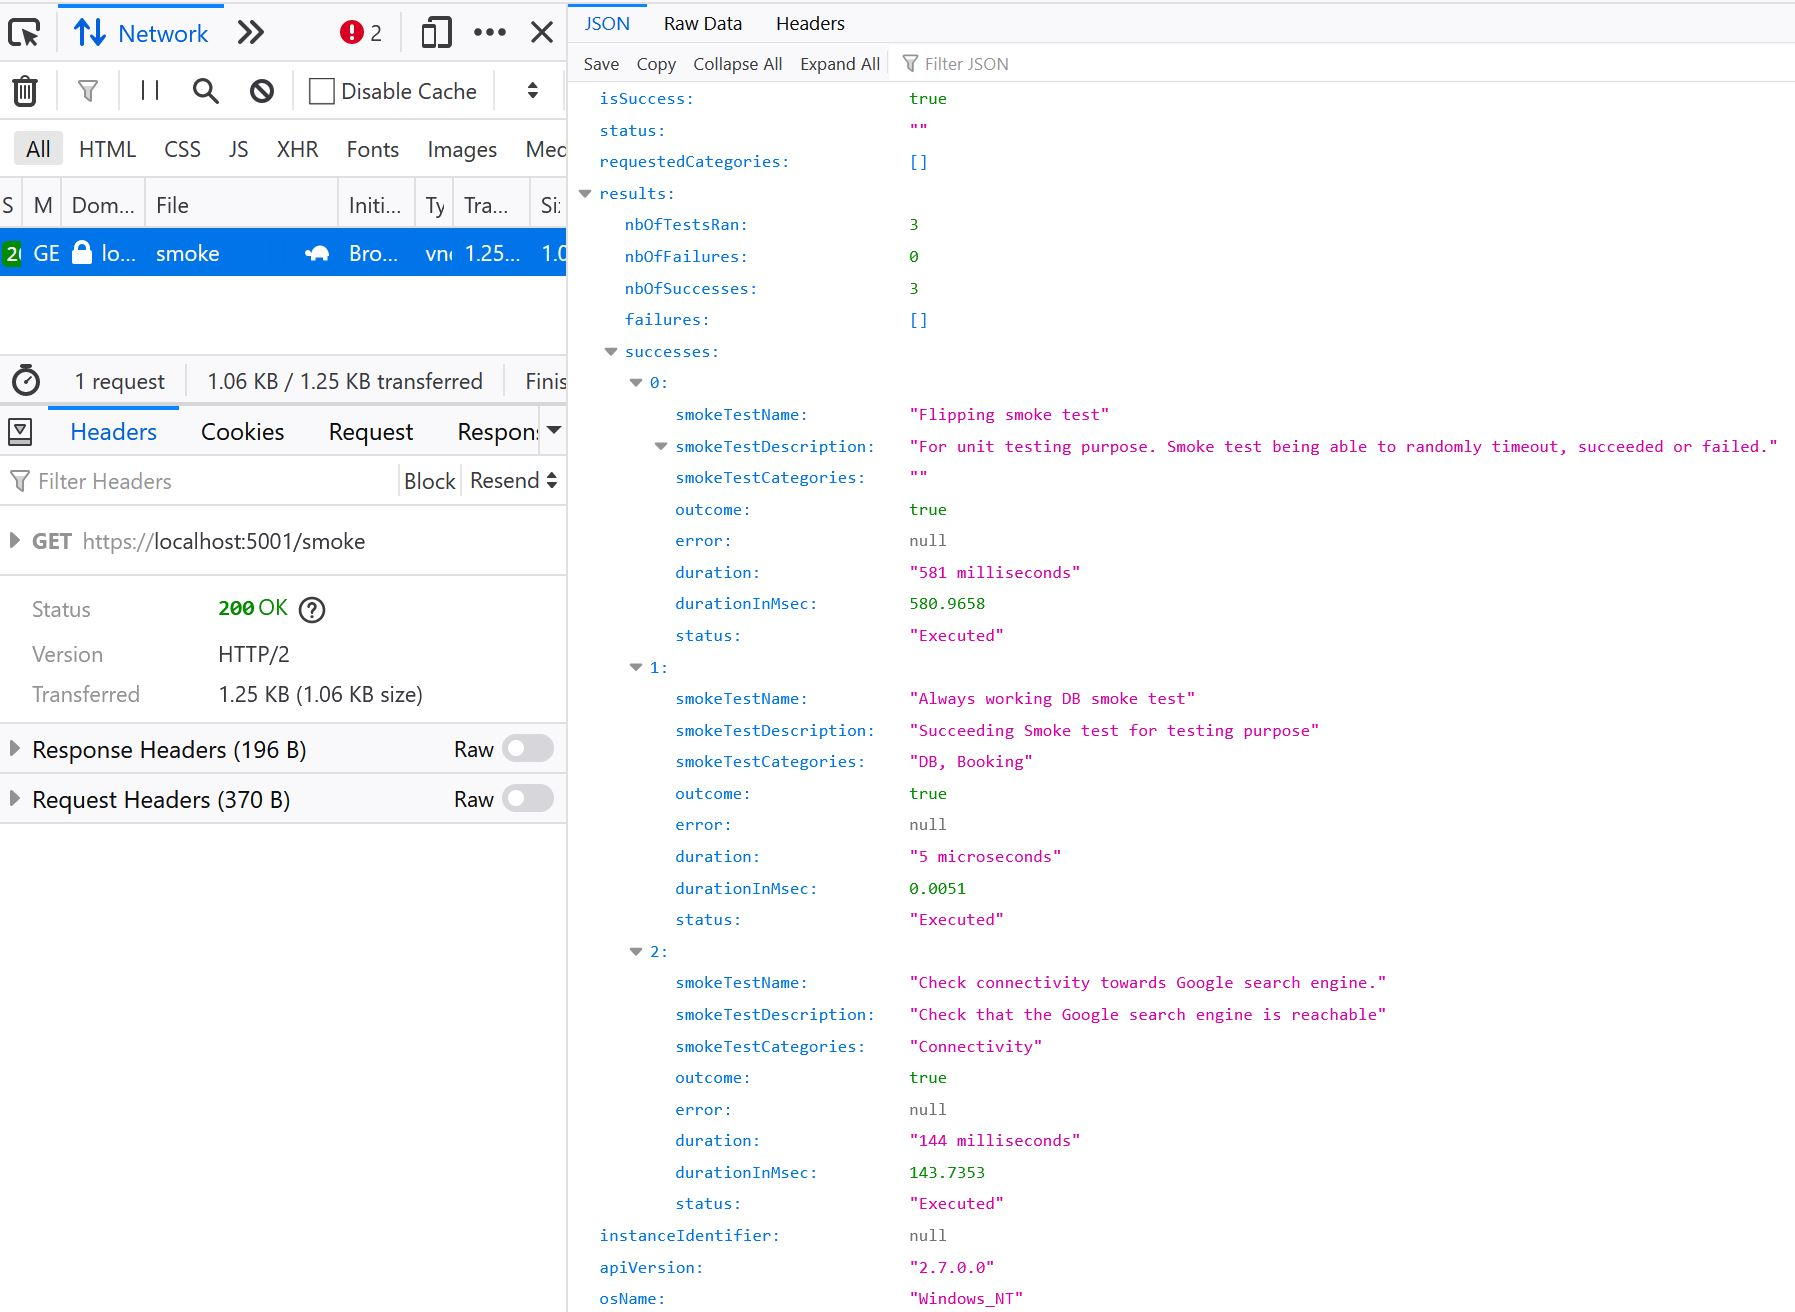
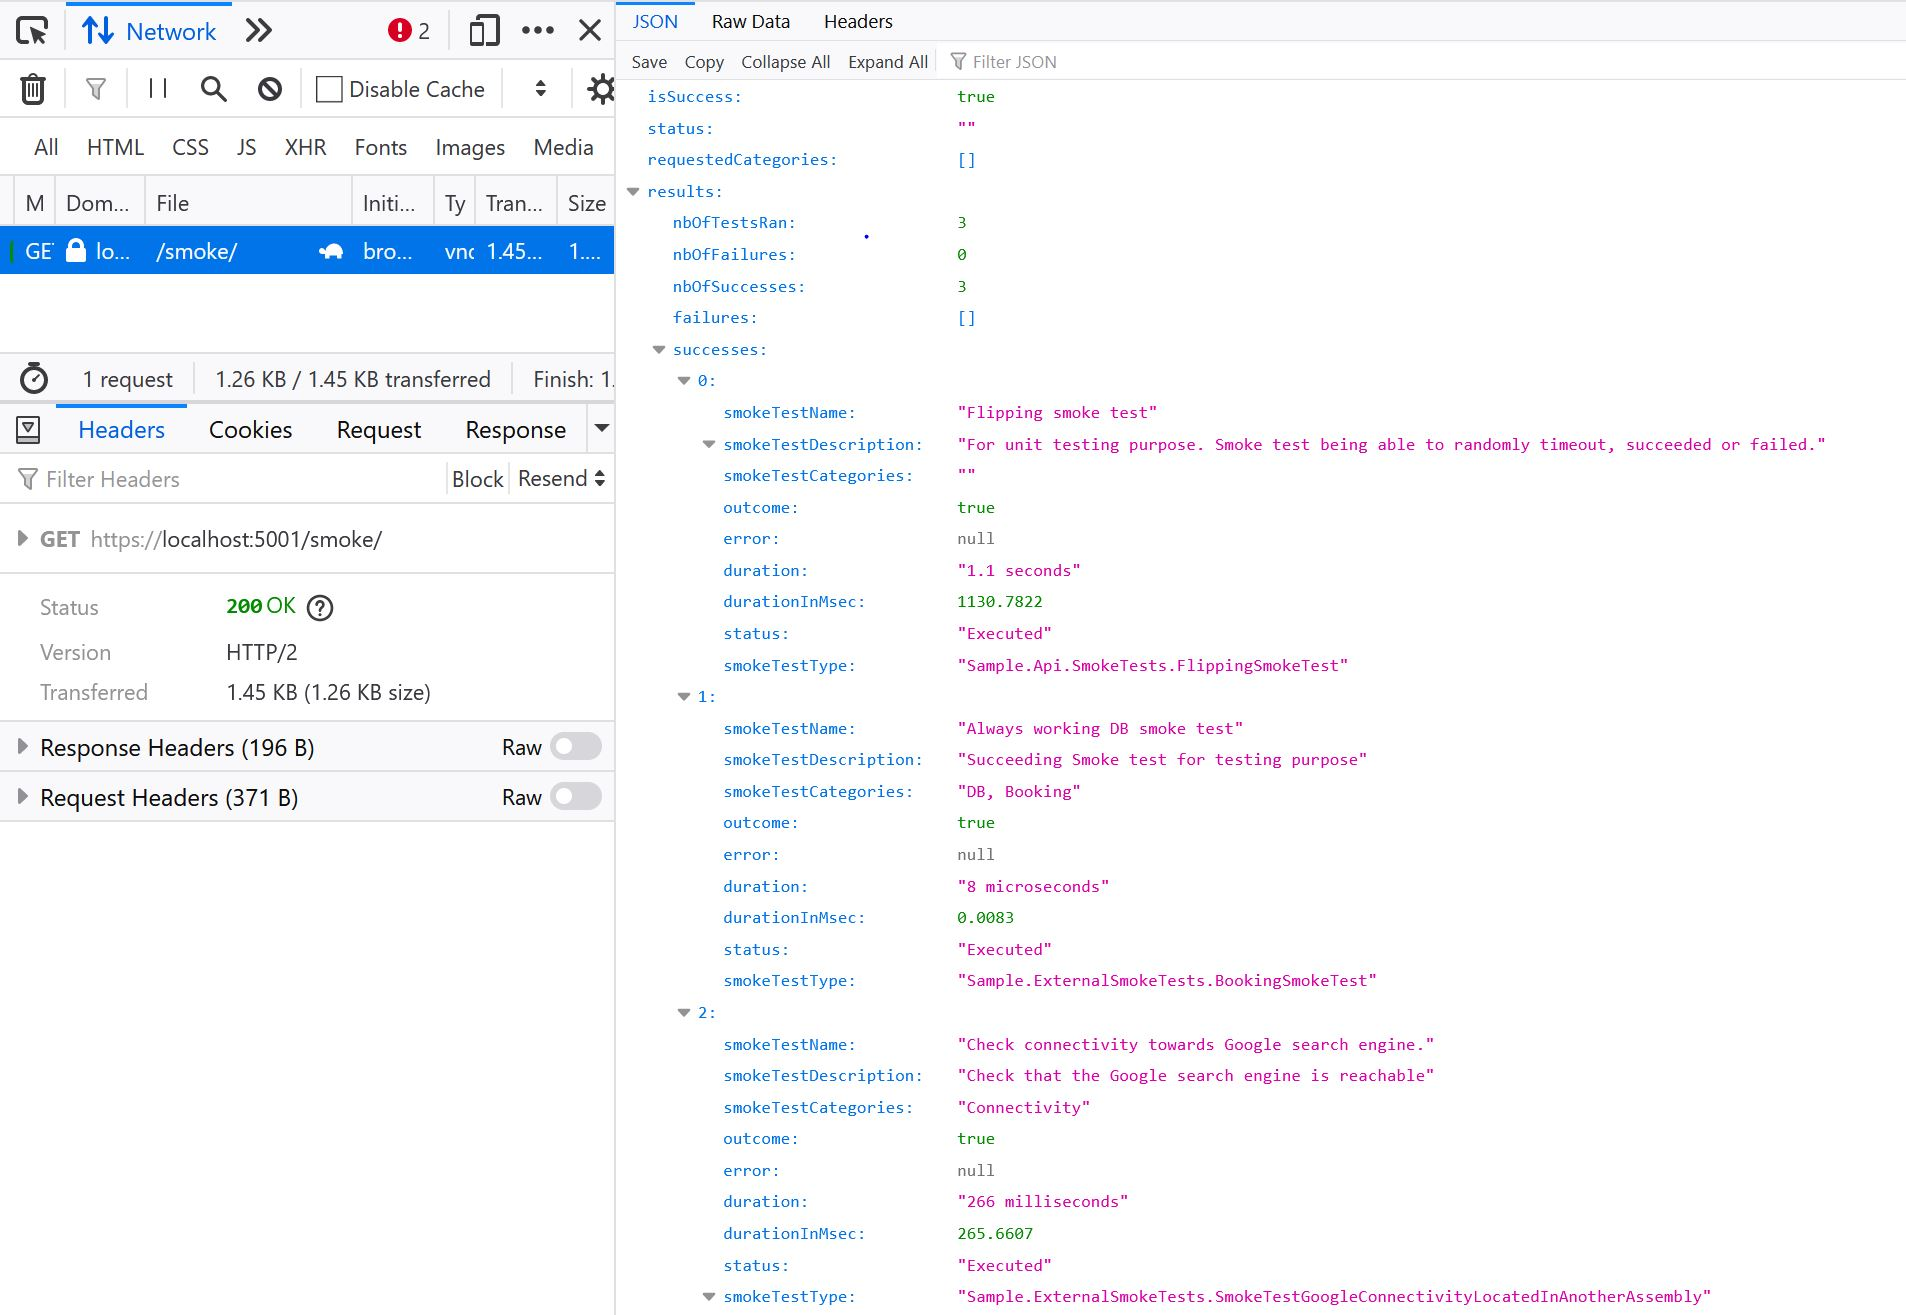
Publish the list of Discard tests as a subset of the Result.
Publish the type of every smoke test whatever their outcome (failure, success or discard)

Update the picture of the Readme samples.

diff --git a/SmokeMe.Tests/Acceptance/SmokeControllerShould.cs b/SmokeMe.Tests/Acceptance/SmokeControllerShould.cs
@@ -77,6 +77,8 @@ namespace SmokeMe.Tests.Acceptance
             Check.That(reportDto.IsSuccess).IsFalse();
             Check.That(reportDto.Status).IsEqualTo("One or more smoke tests have timeout (global timeout is: 5 seconds)");
             Check.That(reportDto.Results.NbOfTestsRan).IsEqualTo(2);
+            Check.That(reportDto.Results.NbOfSuccesses).IsEqualTo(1);
+            Check.That(reportDto.Results.NbOfFailures).IsEqualTo(1);
 
             Check.That(reportDto.Results.Failures[0].Outcome).IsFalse();
             Check.That(reportDto.Results.Failures[0].Duration).IsEqualTo("timeout");
@@ -287,6 +289,30 @@ namespace SmokeMe.Tests.Acceptance
         }
 
         [Test]
+        public async Task Publish_the_Type_FullName_of_every_SmokeTest()
+        {
+            var configuration = Stub.AConfiguration(true);
+            var serviceProvider = Stub.FeatureToggles(new FeatureToggle("featureToggledSmokeTest", false));
+            var smokeTestAutoFinder = new SmokeTestAutoFinder(serviceProvider);
+
+            var controller = new SmokeController(configuration, serviceProvider, smokeTestAutoFinder);
+
+            var response = await controller.ExecuteSmokeTests();
+
+            response.CheckIsError<SmokeTestsSessionReportDto>(HttpStatusCode.InternalServerError);
+            var reportDto = response.ExtractValue<SmokeTestsSessionReportDto>();
+
+            Check.That(reportDto.Results.NbOfTestsRan).IsEqualTo(6);
+            Check.That(reportDto.Results.NbOfFailures).IsEqualTo(3);
+            Check.That(reportDto.Results.NbOfSuccesses).IsEqualTo(2);
+            Check.That(reportDto.Results.NbOfDiscards).IsEqualTo(1);
+
+            Check.That(reportDto.Results.Failures.Select(x => x.SmokeTestType)).ContainsExactly(typeof(AlwaysFailingSmokeTest).FullName, typeof(SmokeTestThrowingAnAccessViolationException).FullName, typeof(SmokeTestGoogleConnectivityLocatedInAnotherAssembly).FullName);
+            Check.That(reportDto.Results.Successes.Select(x => x.SmokeTestType)).ContainsExactly(typeof(AlwaysPositiveSmokeTest).FullName, typeof(BookingSmokeTest).FullName);
+            Check.That(reportDto.Results.Discards.Select(x => x.SmokeTestType)).ContainsExactly(typeof(FeatureToggledAlwaysPositiveSmokeTest).FullName);
+        }
+
+        [Test]
         public async Task Be_able_to_discard_Test_execution_when_Indicated_with_MustBeDiscarded_set_to_true()
         {
             var configuration = Stub.AConfiguration(true);
@@ -302,9 +328,13 @@ namespace SmokeMe.Tests.Acceptance
             var reportDto = response.ExtractValue<SmokeTestsSessionReportDto>();
 
             Check.That(reportDto.Results.NbOfTestsRan).IsEqualTo(2);
-            Check.That(reportDto.Results.Successes.Select(x => x.SmokeTestName)).ContainsExactly("Always positive smoke test after a delay", "Feature toggled test");
+            Check.That(reportDto.Results.NbOfSuccesses).IsEqualTo(1);
+            Check.That(reportDto.Results.NbOfDiscards).IsEqualTo(1);
+            Check.That(reportDto.Results.Successes.Select(x => x.SmokeTestName)).ContainsExactly("Always positive smoke test after a delay");
+            Check.That(reportDto.Results.Discards.Select(x => x.SmokeTestName)).ContainsExactly("Feature toggled test");
             
-            Check.That(reportDto.Results.Successes.Select(x => x.Status)).ContainsExactly(Status.Executed, Status.Discarded);
+            Check.That(reportDto.Results.Successes.Select(x=> x.Status)).ContainsExactly(Status.Executed);
+            Check.That(reportDto.Results.Discards.Select(x=> x.Status)).ContainsExactly(Status.Discarded);
         }
 
         private static void ForceTheLoadingOfTheSampleExternalSmokeTestsAssembly()

diff --git a/SmokeMe/SmokeTestRunner.cs b/SmokeMe/SmokeTestRunner.cs
@@ -59,7 +59,7 @@ namespace SmokeMe
 
             var timeoutSmokeTests = smokeTestsWithMetaData.Where(x => !completedIdentifiers.Contains(x.SmokeTestIdentifier.Value));
 
-            var timeoutResultWithSomeMetaData = timeoutSmokeTests.Select(x => new SmokeTestResultWithMetaData(new SmokeTestResult(false), null, x));
+            var timeoutResultWithSomeMetaData = timeoutSmokeTests.Select(x => new SmokeTestResultWithMetaData(new SmokeTestResult(false), null, x, smokeTestType:x.GetType().Name));
 
             var timeoutAndCompletedResultsWithMetadata = timeoutResultWithSomeMetaData.Concat(completedTestsResultWithMetaData).ToArray();
 
@@ -97,14 +97,14 @@ namespace SmokeMe
                 {
                     stopwatch.Stop();
 
-                    var smokeTestNonExecution = new SmokeTestResultWithMetaData(new SmokeTestResult(true), stopwatch.Elapsed, smokeTestWithMetaData, discarded: true);
+                    var smokeTestNonExecution = new SmokeTestResultWithMetaData(new SmokeTestResult(true), stopwatch.Elapsed, smokeTestWithMetaData, smokeTestType: smokeTest.GetType().FullName, discarded: true);
                     return new SmokeTestWithItsResultWithMetaData(smokeTest, smokeTestNonExecution, smokeTestWithMetaData.SmokeTestIdentifier.Value);
                 }
 
                 var smokeTestResult = await smokeTest.Scenario();
 
                 stopwatch.Stop();
-                var smokeTestExecution = WrapSmokeTestResultWithMetaData(smokeTestResult, stopwatch.Elapsed, smokeTestWithMetaData);
+                var smokeTestExecution = WrapSmokeTestResultWithMetaData(smokeTestResult, stopwatch.Elapsed, smokeTestWithMetaData, smokeTestTypeName:smokeTest.GetType().FullName);
 
                 return new SmokeTestWithItsResultWithMetaData(smokeTest , smokeTestExecution, smokeTestWithMetaData.SmokeTestIdentifier.Value);
             }
@@ -112,14 +112,14 @@ namespace SmokeMe
             {
                 stopwatch.Stop();
                 var smokeTestResult = new SmokeTestResult("", ex);
-                var smokeTestExecution = WrapSmokeTestResultWithMetaData(smokeTestResult, stopwatch.Elapsed, smokeTestWithMetaData);
+                var smokeTestExecution = WrapSmokeTestResultWithMetaData(smokeTestResult, stopwatch.Elapsed, smokeTestWithMetaData, smokeTestTypeName: smokeTest.GetType().FullName);
                 return new SmokeTestWithItsResultWithMetaData(smokeTest, smokeTestExecution, smokeTestWithMetaData.SmokeTestIdentifier.Value);
             }
         }
 
-        private static SmokeTestResultWithMetaData WrapSmokeTestResultWithMetaData(SmokeTestResult smokeTestResult, TimeSpan elapsedTime, SmokeTestInstanceWithMetaData smokeTestInstanceWithMetaData)
+        private static SmokeTestResultWithMetaData WrapSmokeTestResultWithMetaData(SmokeTestResult smokeTestResult, TimeSpan elapsedTime, SmokeTestInstanceWithMetaData smokeTestInstanceWithMetaData, string smokeTestTypeName)
         {
-            return new SmokeTestResultWithMetaData(smokeTestResult, elapsedTime, smokeTestInstanceWithMetaData);
+            return new SmokeTestResultWithMetaData(smokeTestResult, elapsedTime, smokeTestInstanceWithMetaData, smokeTestType: smokeTestTypeName);
         }
 
         private class SmokeTestWithItsResultWithMetaData

diff --git a/SmokeMe/SmokeTestResultWithMetaData.cs b/SmokeMe/SmokeTestResultWithMetaData.cs
@@ -37,6 +37,8 @@ namespace SmokeMe
         public string[] SmokeTestCategories { get; }
 
         public Status Status { get; } = Status.Executed;
+        
+        public string SmokeTestType { get; }
 
         /// <summary>
         /// Instantiates a <see cref="SmokeTestResultWithMetaData"/>.
@@ -48,13 +50,14 @@ namespace SmokeMe
         /// <param name="smokeTestCategories"></param>
         /// <param name="discarded"></param>
         private SmokeTestResultWithMetaData(SmokeTestResult smokeTestResult, TimeSpan? duration, string smokeTestName, string smokeTestDescription,
-            string[] smokeTestCategories, bool? discarded)
+            string[] smokeTestCategories, bool? discarded, string smokeTestType)
         {
             SmokeTestResult = smokeTestResult;
             Duration = duration;
             SmokeTestName = smokeTestName;
             SmokeTestDescription = smokeTestDescription;
             SmokeTestCategories = smokeTestCategories;
+            SmokeTestType = smokeTestType;
 
             if (discarded.HasValue && discarded.Value == true)
             {
@@ -66,8 +69,8 @@ namespace SmokeMe
             }
         }
 
-        public SmokeTestResultWithMetaData(SmokeTestResult smokeTestResult, TimeSpan? duration, SmokeTestInstanceWithMetaData smokeTestInstanceWithMetaData,
-            bool? discarded = null) : this(smokeTestResult, duration, smokeTestInstanceWithMetaData.SmokeTest.SmokeTestName, smokeTestInstanceWithMetaData.SmokeTest.Description, smokeTestInstanceWithMetaData.Categories, discarded)
+        public SmokeTestResultWithMetaData(SmokeTestResult smokeTestResult, TimeSpan? duration, SmokeTestInstanceWithMetaData smokeTestInstanceWithMetaData, string smokeTestType,
+            bool? discarded = null) : this(smokeTestResult, duration, smokeTestInstanceWithMetaData.SmokeTest.SmokeTestName, smokeTestInstanceWithMetaData.SmokeTest.Description, smokeTestInstanceWithMetaData.Categories, discarded, smokeTestType)
         {
         }
 

diff --git a/SmokeMe/Infra/SmokeTestResultWithMetaDataDto.cs b/SmokeMe/Infra/SmokeTestResultWithMetaDataDto.cs
@@ -44,6 +44,8 @@ namespace SmokeMe.Infra
 
         public Status Status { get; }
 
+        public string SmokeTestType { get; }
+
         /// <summary>
         /// Instantiates a <see cref="SmokeTestResultWithMetaDataDto"/>.
         /// </summary>
@@ -57,10 +59,11 @@ namespace SmokeMe.Infra
         /// <param name="smokeTestCategories"></param>
         /// <param name="argSmokeTestCategories"></param>
         public SmokeTestResultWithMetaDataDto(string smokeTestName, string smokeTestDescription, bool outcome, Error error, TimeSpan? durationTimespan,
-            string duration, Status status, string[] smokeTestCategories)
+            string duration, Status status, string[] smokeTestCategories, string smokeTestType)
         {
             SmokeTestName = smokeTestName;
             SmokeTestDescription = smokeTestDescription;
+            SmokeTestType = smokeTestType;
             Outcome = outcome;
             Error = error;
             

diff --git a/SmokeMe/Infra/SmokeTestSessionResultAdapter.cs b/SmokeMe/Infra/SmokeTestSessionResultAdapter.cs
@@ -19,7 +19,7 @@ namespace SmokeMe.Infra
         {
             // Adapt the array of results 
             var resultsDto = reports.Results
-                .Select(r => new SmokeTestResultWithMetaDataDto(r.SmokeTestName, r.SmokeTestDescription, r.Outcome, r.ErrorMessage, r.Duration, r.Duration?.GetHumanReadableVersion(), r.Status, r.SmokeTestCategories));
+                .Select(r => new SmokeTestResultWithMetaDataDto(r.SmokeTestName, r.SmokeTestDescription, r.Outcome, r.ErrorMessage, r.Duration, r.Duration?.GetHumanReadableVersion(), r.Status, r.SmokeTestCategories, r.SmokeTestType));
 
             // Adapt the overall wrapper (with runtime description information too)
             var result = new SmokeTestsSessionReportDto(reports, runtimeDescription, resultsDto, categories);

diff --git a/SmokeMe/Infra/SmokeTestsResults.cs b/SmokeMe/Infra/SmokeTestsResults.cs
@@ -12,8 +12,11 @@ namespace SmokeMe.Infra
 
         public int NbOfSuccesses => Successes.Length;
 
+        public int NbOfDiscards => Discards.Length;
+
         public SmokeTestResultWithMetaDataDto[] Failures => _allResults.Where(x => x.Outcome == false).ToArray();
-        public SmokeTestResultWithMetaDataDto[] Successes => _allResults.Where(x => x.Outcome == true).ToArray();
+        public SmokeTestResultWithMetaDataDto[] Successes => _allResults.Where(x => x.Outcome == true && x.Status != Status.Discarded).ToArray();
+        public SmokeTestResultWithMetaDataDto[] Discards => _allResults.Where(x => x.Outcome == true && x.Status == Status.Discarded).ToArray();
 
         public SmokeTestsResults(SmokeTestResultWithMetaDataDto[] allResults)
         {

diff --git a/Samples/Sample.31.Api/SmokeTests/AlwaysDiscardedSmokeTest.cs b/Samples/Sample.31.Api/SmokeTests/AlwaysDiscardedSmokeTest.cs
@@ -1,0 +1,19 @@
+using System;
+using System.Threading.Tasks;
+using SmokeMe;
+
+namespace Sample.Api.SmokeTests
+{
+    public class AlwaysDiscardedSmokeTest : SmokeTest
+    {
+        public override string SmokeTestName => "Discarded Smoke test";
+        public override string Description => "Smoke test systematically Discarded";
+
+        public override bool MustBeDiscarded => true;
+
+        public override Task<SmokeTestResult> Scenario()
+        {
+            throw new NotImplementedException();
+        }
+    }
+}

diff --git a/Samples/Sample.31.Api/SmokeTests/FlippingSmokeTest.cs b/Samples/Sample.31.Api/SmokeTests/FlippingSmokeTest.cs
@@ -28,7 +28,7 @@ namespace Sample.Api.SmokeTests
             var delayInMsec = _fuzzer.GenerateInteger(100, 1700);
 
             if (_fuzzer.HeadsOrTails())
-            {
+            {   
                 // force a timeout
                 delayInMsec = Convert.ToInt32(_configuration.GetSmokeMeGlobalTimeout().Add(TimeSpan.FromSeconds(1)).TotalMilliseconds);
             }
